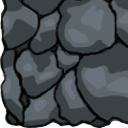
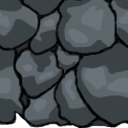
Ajout du chargement de niveau

Changed region(s): [[0.0, 0.0, 1.0, 1.0]]

diff --git a/Jeu.js b/Jeu.js
@@ -2,9 +2,18 @@
  {
     var dessin = document.getElementById("dessin");
     var deplacementActuel
+
     var background = new Image();
     background.src = "terrain/background.png";
     var tiles = new Array();
+    var level = [
+        0,0,0,0,0,0,0,0,0,0,
+        0,0,0,0,0,0,0,0,0,0,
+        0,0,0,0,0,0,0,0,0,0,
+        0,0,0,0,0,0,0,0,0,0,
+        0,0,0,0,0,0,0,0,0,0,
+        1,1,1,1,1,1,1,1,1,1
+    ];
 
     //var ennemi = new Ennemi(dessin);  
     var scene = new createjs.Stage(dessin);
@@ -14,20 +23,10 @@
     {
         var image = event.target;
         var bitmap = new createjs.Bitmap(image);
-       // scene.addChild(bitmap);
+        scene.addChild(bitmap);
 
 
     }
-    var tile = new Plateforme(scene);
-   var interval = setInterval(
-        function() {
-            console.log(tile.estCharge());
-            if(tile.estCharge()){
-                tile.afficher();
-                
-                
-            }
-        },20);
 
 
 
@@ -37,7 +36,24 @@
     {
         deplacementActuel = evenement.delta / 1000 * 200; 
         hero.deplacer(deplacementActuel);
+        hero.arretChute();
+        for(var i = 0; i < tiles.length; i++)
+        {
+
+            if(hero.getRepresantation().intersects(tiles[i].getRepresentation()))
+            {
+                hero.setGrounded(true);
+            }
+            else
+            {
+                hero.setGrounded(false);
+            }
+        }
+
         scene.update(evenement);
+        console.log(hero.getRepresantation());
+        console.log(tiles[0].getRepresentation());
+
     }    
 
     var hero = new PersonnagePrincipal(scene);  
@@ -70,7 +86,7 @@
                 break;
             case TOUCHE_ESPACE:
 
-                hero.sauter(deplacementActuel);
+                hero.sauter();
                 break;
             case TOUCHE_CONTROLE:
 
@@ -95,7 +111,6 @@
                 hero.metreEnAttente();
                 break;
             case TOUCHE_ESPACE:
-                hero.metreEnAttente();
                 break;
             case TOUCHE_CONTROLE:
 
@@ -110,7 +125,58 @@
 
     this.document.onkeydown = gererToucheEnfoncee;
     this.document.onkeyup = gererToucheRelachee;
+    function creerNiveau()
+    {   
+        var i ;
+        var j ;
+        var x = 0;
+        var y = 0;
+        var indiceLevel = 0;
+        var indiceTiles = 0;
+        for(i = 0; i < 6; i++)
+        {
+            for(j = 0 ; j < 10; j++)
+            {
+                if(level[indiceLevel] == 1)
+                {
+                    tiles[indiceTiles] = new Plateforme(scene);
+                    tiles[indiceTiles].x = x;
+                    tiles[indiceTiles].y = y;
+                    indiceTiles += 1;
+                }
+                x += 128;
+                indiceLevel += 1;
+            }
+            y += 128;
+            x = 0;
+        }
+        setInterval(
+            function(){
+                var nombre = 0;
+
+                for(i = 0 ; i < tiles.length; i++)
+                {
+                    if(tiles[i].estCharge())
+                        nombre++;
+                }
+
+                if(nombre == tiles.length)
+                {
+                    for(i = 0; i != tiles.length; i++)
+                    {
+                        tiles[i].setPosition();
+                        tiles[i].afficher();
+                    }
+                    clearInterval();
+                }
 
 
+
+            }, 500);
+
+    }
+
+    creerNiveau();
+    console.log (tiles);
 
 })();

diff --git a/personnage/PersonnagePrincipal.js b/personnage/PersonnagePrincipal.js
@@ -24,6 +24,7 @@ function PersonnagePrincipal(scene)
         enAttente:"EN ATTENTE",
         enGobe:"EN TRAIN DE GOBBER"
     }
+    var estGrounded = false;
     var etatCourant;
     blop.onload = terminerChargement;
     blop.src = "personnage/blop.png";
@@ -60,13 +61,18 @@ function PersonnagePrincipal(scene)
         personnagePrincipal.estCharge = true;   
         etatCourant = Etat.enAttente;
         animationActuel = animationIdle;
+        animationActuel.x = 0;
+        animationActuel.y = 531;
+
     }
 
 
 
     this.afficher = function()
     {
+
         scene.addChild(animationActuel);
+
     }
     function changerAnimation(animation)
     {
@@ -93,10 +99,10 @@ function PersonnagePrincipal(scene)
             case Etat.enAttente:
                 break;
             case Etat.enSautHaut:
-                animationActuel.y += deplacement;
+                animationActuel.y -= deplacement;
                 break;
             case Etat.enSautBas:
-                animationActuel.y -= deplacement;
+                animationActuel.y += deplacement;
                 break;
             case Etat.enGobe:
                 animationActuel.scaleX += 0.2;
@@ -131,16 +137,43 @@ function PersonnagePrincipal(scene)
     this.sauter = function()
     {
         changerAnimation(animationSaute);
-       etatCourant = Etat.enSautHaut;
-
+        etatCourant = Etat.enSautHaut;
+        setTimeout(mettreEnChute, 500);
     }
     this.gobber = function()
     {
-        etatCourant = Etat.enGobe;
-    
-        
-        
+        etatCourant = Etat.enGobe; 
     }
 
+    this.getRepresantation = function()
+    {
+
+        return modifierBound(animationActuel.getBounds());
+
+    }
+    function modifierBound(rectangle)
+    {
+        rectangle.x = animationActuel.x;
+        rectangle.y = animationActuel.y;
+
+        return rectangle;
+
+    }
+
+    function mettreEnChute()
+    {
+
+        etatCourant = Etat.enSautBas;
+
+    }
+
+    this.setGrounded = function(etat)
+    {
+        estGrounded = etat;
+    }
+    this.arretChute = function(){
+    if(estGrounded && etatCourant == Etat.enSautBas)
+        etatCourant = Etat.enAttente
+    }
 
 }

diff --git a/terrain/Plateforme.js b/terrain/Plateforme.js
@@ -1,16 +1,16 @@
 function Plateforme(scene)
 {
-
+    
     var texture = new Image();
     var charge = false;
     var tilebitmap;
+    this.x = 0;
+    this.y = 0;
 
-
-    var indice = Math.floor((Math.random() * 9));
 
     function initialiser()
     {
-        texture.src = "terrain/tiles/ground" + indice + ".png";
+        texture.src = "terrain/tiles/ground0.png";
         texture.onload = gererChargementTile; 
     }
 
@@ -23,6 +23,8 @@ function Plateforme(scene)
         tilebitmap = new createjs.Bitmap(image); 
         charge = true;
 
+
+
     }
 
     this.estCharge = function()
@@ -32,11 +34,30 @@ function Plateforme(scene)
 
     this.afficher = function()
     {
+
         scene.addChild(tilebitmap);
 
+
     }
-    console.log(this.plateforme);
+    this.setPosition = function()
+    {
+        tilebitmap.x = this.x;
+        tilebitmap.y = this.y;
+       
+    }
 
+
+    this.getRepresentation = function()
+    {
+        return modifierRectangle(tilebitmap.getBounds());
+    }
+
+    function modifierRectangle(rectangle)
+    {
+        rectangle.x = tilebitmap.x;
+        rectangle.y = tilebitmap.y;
+        return rectangle;
+    }
     initialiser();
-
+    
 }

diff --git a/Jeu.html b/Jeu.html
@@ -4,7 +4,7 @@
 </head>  
 <body>
     <span id="nom-joueur"></span>
-    <canvas id="dessin" width="1366" height="768"></canvas>
+    <canvas id="dessin" width="1280" height="768"></canvas>
     <script src="terrain/Plateforme.js"></script>
     <script src="modele/joueur.js"></script>
     <script type="text/javascript" src="personnage/easeljs.min.js"></script>
